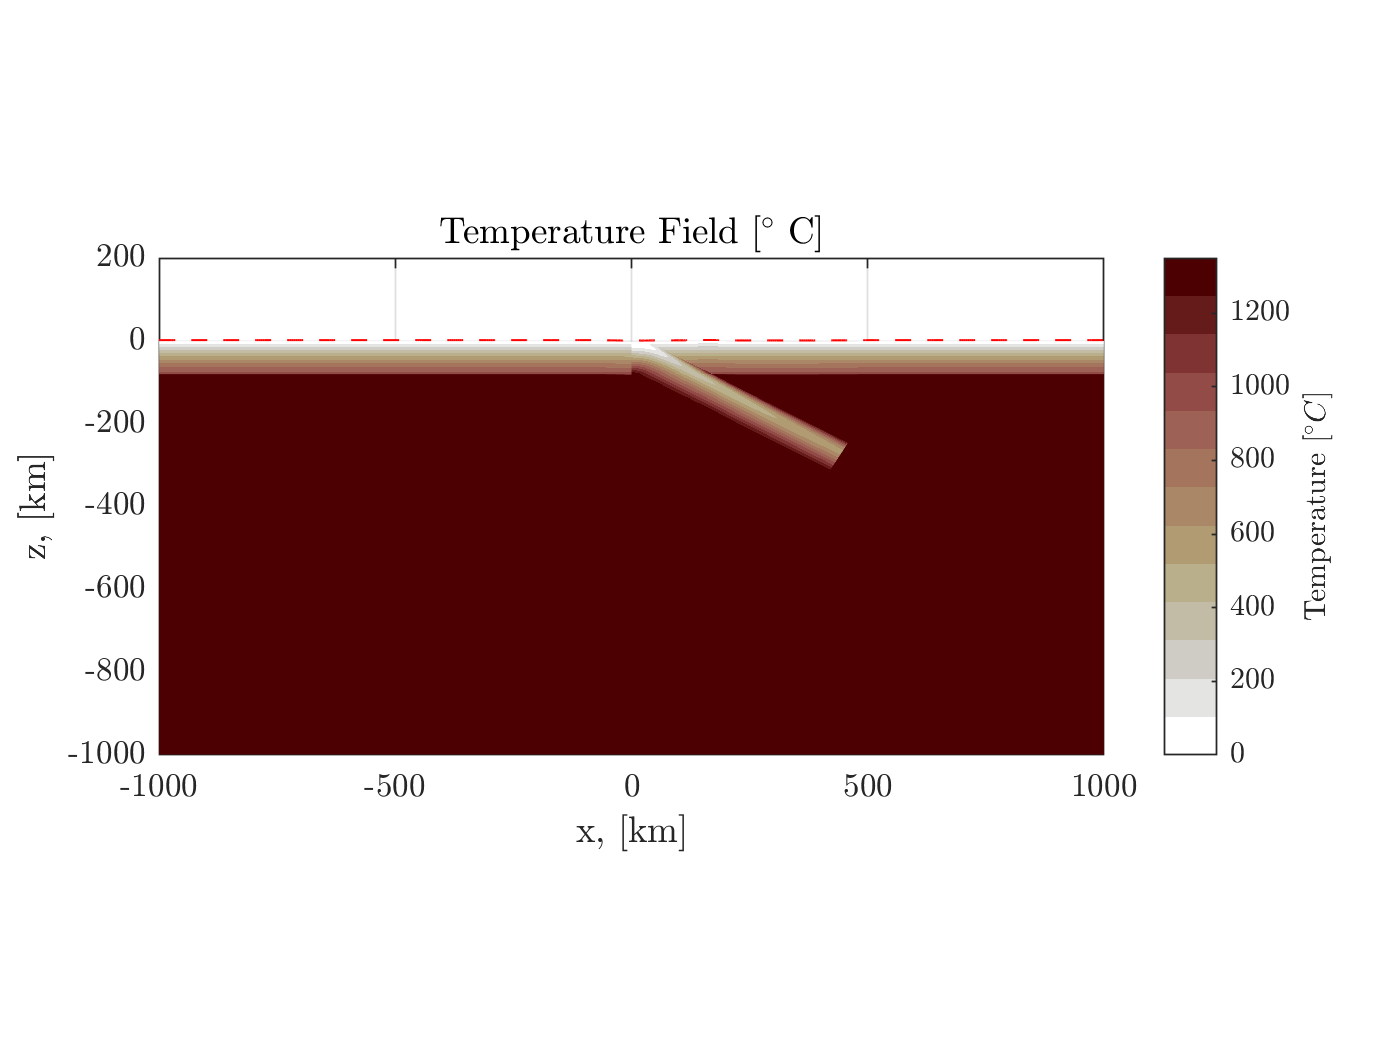
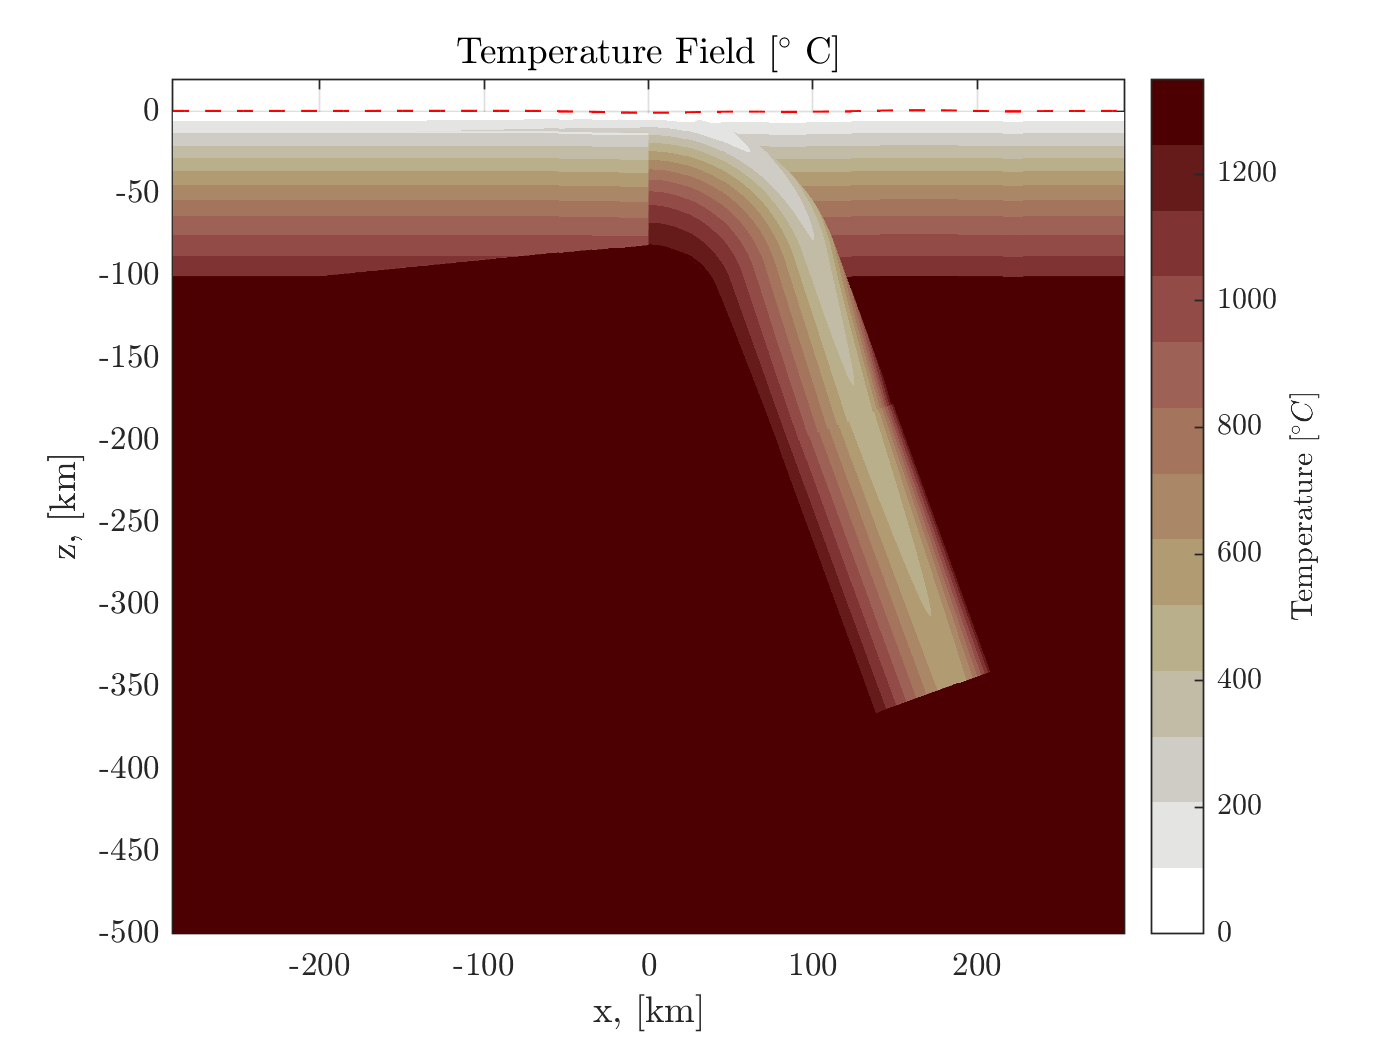
New addition

diff --git a/Curry_Wurst_Slab_2D.m b/Curry_Wurst_Slab_2D.m
@@ -16,9 +16,11 @@ Parallel_partition     = 'ProcessorPartitioning_8cpu_4.1.2.bin';
 T.R        = 40;   %curvature radius
 T.theta_c  = 30;   %curvature radius ingested continental crust
 T.theta_dc = 20;   % additional curvature to emulate passive margin (optional)
-T.theta    = 30;   % curvature slab
+T.theta    = 70;   % curvature slab
 T.tk_WZ    = 0;   % thickness of the weak zone
-T.L0       = 500;  % length of the slab from the bottom of the lithosphere
+Area       = 300.*80; 
+L          = (300.*2)./(1+sin(T.theta*pi/180).^2);
+T.L0       = L;  % length of the slab from the bottom of the lithosphere
 T.D0       = 80;   % Thickness of the slab
 T.Cont     = 30;   % Thickness continental crust
 T.C  = [0.0 -T.D0-T.R];
@@ -31,7 +33,8 @@ T.Type = 'Mode_1'; % 'Ribe_Mode'
 T.CCS.phases = [13,1,2];
 T.CCS.Stratigraphy=[0,-12,-15,-30];
 T.Temperature = 'McKenzie';
-T.vl          = 1.0; 
+T.vl          = 10.0; 
+T.Decoupling = -100; 
 
 
 
@@ -79,6 +82,7 @@ Continent1.Phases = [phases.Ph_UC(1),phases.Ph_LC(1),phases.Ph_Clt(1)];
 Continent1.Stratigraphy = [0.0,-15.0,-30.0,-100.0];
 Continent1.Age          = 100.0;
 Continent1.Passive_Margin = {[],'right'};
+Continent1.Passive_Margin_Age = [100.0,40.0]; 
 Continent1.Passive_Margin_phase = phases.Ph_pas_m;
 %% Continent Terranes 2
 Continent2.order = 3;
@@ -380,9 +384,14 @@ for i=1:n
 end
     t_prov(slab==1) = (T_P)+2.*(T_P-T_S).*Sigma(slab==1); 
     t_prov(slab==1 & t_prov<0) = T_S; 
-    weight = abs(z./Terranes.Trench_properties.D0);
-    weight(weight>1) = 0.9; 
-    Temp(slab==1)=(Temp(slab==1).*(1-weight(slab==1))+t_prov(slab==1)).*weight(slab==1); 
+    % Decoupling depth-length
+    i = find(zprojection>=Terranes.Trench_properties.Decoupling,1);  
+    weight(slab==1) = 0+(0.6-0.1)./(l(i)-0.1).*(l(slab==1)-0.1);
+    weight(weight>1) =0.9; 
+    weight(weight<0) =0.01; 
+
+    weight = weight'; 
+    Temp(slab==1)=(weight(slab==1)).*t_prov(slab==1)+(1-weight(slab==1)).*Temp(slab==1);
     Temp = reshape(Temp,size(A.Xpart)); 
 end
 
@@ -692,10 +701,12 @@ end
 function [Phase,Temp] = fill_layer(A,Terranes,Phase,Temp,Gen,cont)
 % Select the layer and portion of the model:
 indx = A.Xpart >= Terranes.x_lim(1) & A.Xpart < Terranes.x_lim(2);
+if ~isempty(indx(indx==1))
 % Compute the thermal profile
-[Temp] = compute_temperature_profile(A,Temp,1,Gen,Terranes,indx);
+    [Temp] = compute_temperature_profile(A,Temp,1,Gen,Terranes,indx);
 % Fill the phase stratigraphy:
-[Phase] = fill_stratigraphy(A.Zpart,Phase,Terranes,indx,cont);
+    [Phase] = fill_stratigraphy(A.Zpart,Phase,Terranes,indx,cont);
+end
 end
 
 function [Phase,Temp] = fill_subduction(A,Terranes,Phase,Temp,Gen)
@@ -816,7 +827,19 @@ if ~isempty(direction)
     [in2,~]  = inpolygon(A.Xpart,A.Zpart,x_l,z_l);
     Phase(in2) = Gen.Ph_UM;
     Temp(in2) = Gen.T_P;
+    k = Terranes.K./(Terranes.Cp.*3300);
+    dT_Age = (Terranes.Passive_Margin_Age(2)-Terranes.Passive_Margin_Age(1))./(x_l(2)-x(1));
+    ind = A.Xpart>=x_l(1) & A.Xpart(2)<x_l(2);
+    Age = A.Xpart(ind).*0.0;
+    Age = (A.Xpart(ind == 1 & in==1)-x_l(1))*dT_Age+Terranes.Passive_Margin_Age(1); 
+    Age = Age.*(365.25.*60.*60.*24.*1e6); 
+    T_P   = Gen.T_P;
+    T_S   = Gen.T_S;
+    erf_function = erf(A.Zpart(ind == 1 & in ==1).*1000./2./(k.*Age).^0.5);
+    Temp(ind == 1 & in == 1) = T_S - (T_P-T_S).*erf_function;
+    Temp(in2) = T_P;
 
+    
 
 end
 end
@@ -885,6 +908,9 @@ caxis([0 1350])
 c.Label.String = 'Temperature $[^\circ C]$';
 c.Label.Interpreter = 'latex';
 c.TickLabelInterpreter='latex';
+xlim([-100 400])
+ylim([-500,20])
+axis equal
 print('Temperature','-dpng','-r0')
 
 

diff --git a/Terrane.m b/Terrane.m
@@ -15,6 +15,7 @@ classdef Terrane
         Passive_Margin_depo_center_pos = 0.2; 
         Passive_Margin_length          = 200; 
         Passive_Margin_d_lithos        = 20; 
+        Passive_Margin_Age             = []; 
         Trench                         ='none';
         Trench_properties              = [];
         Accretion_prism                = 'none';
